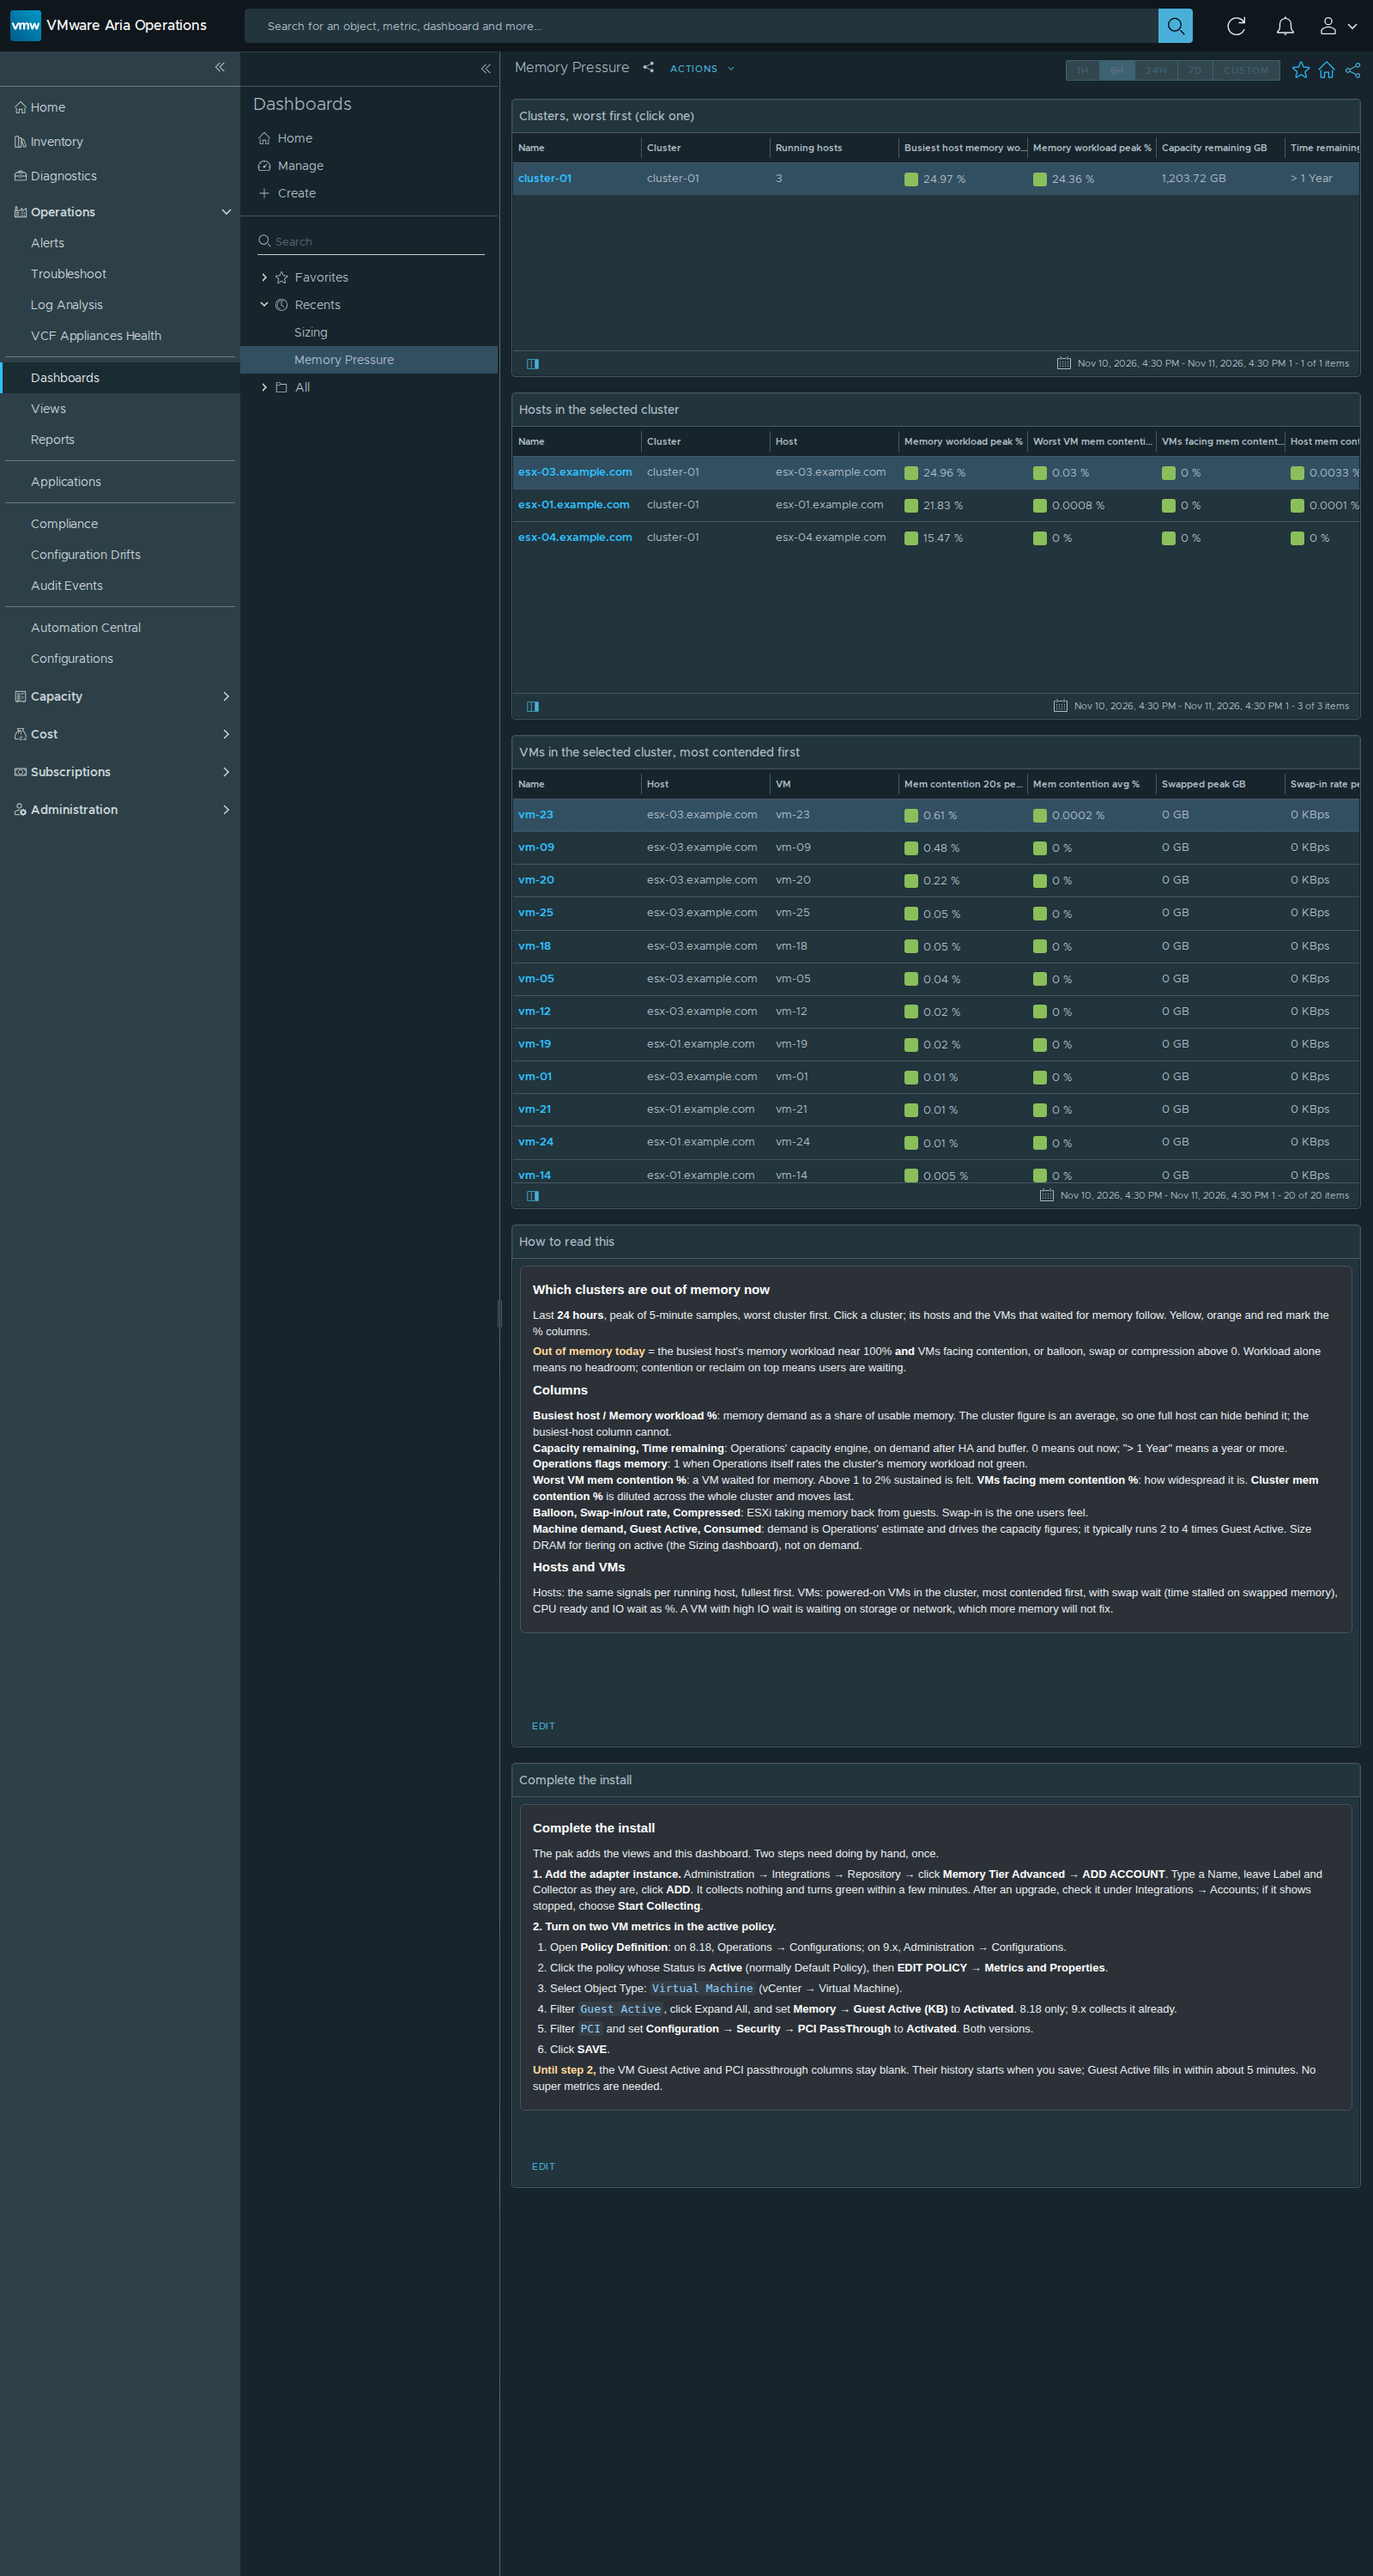
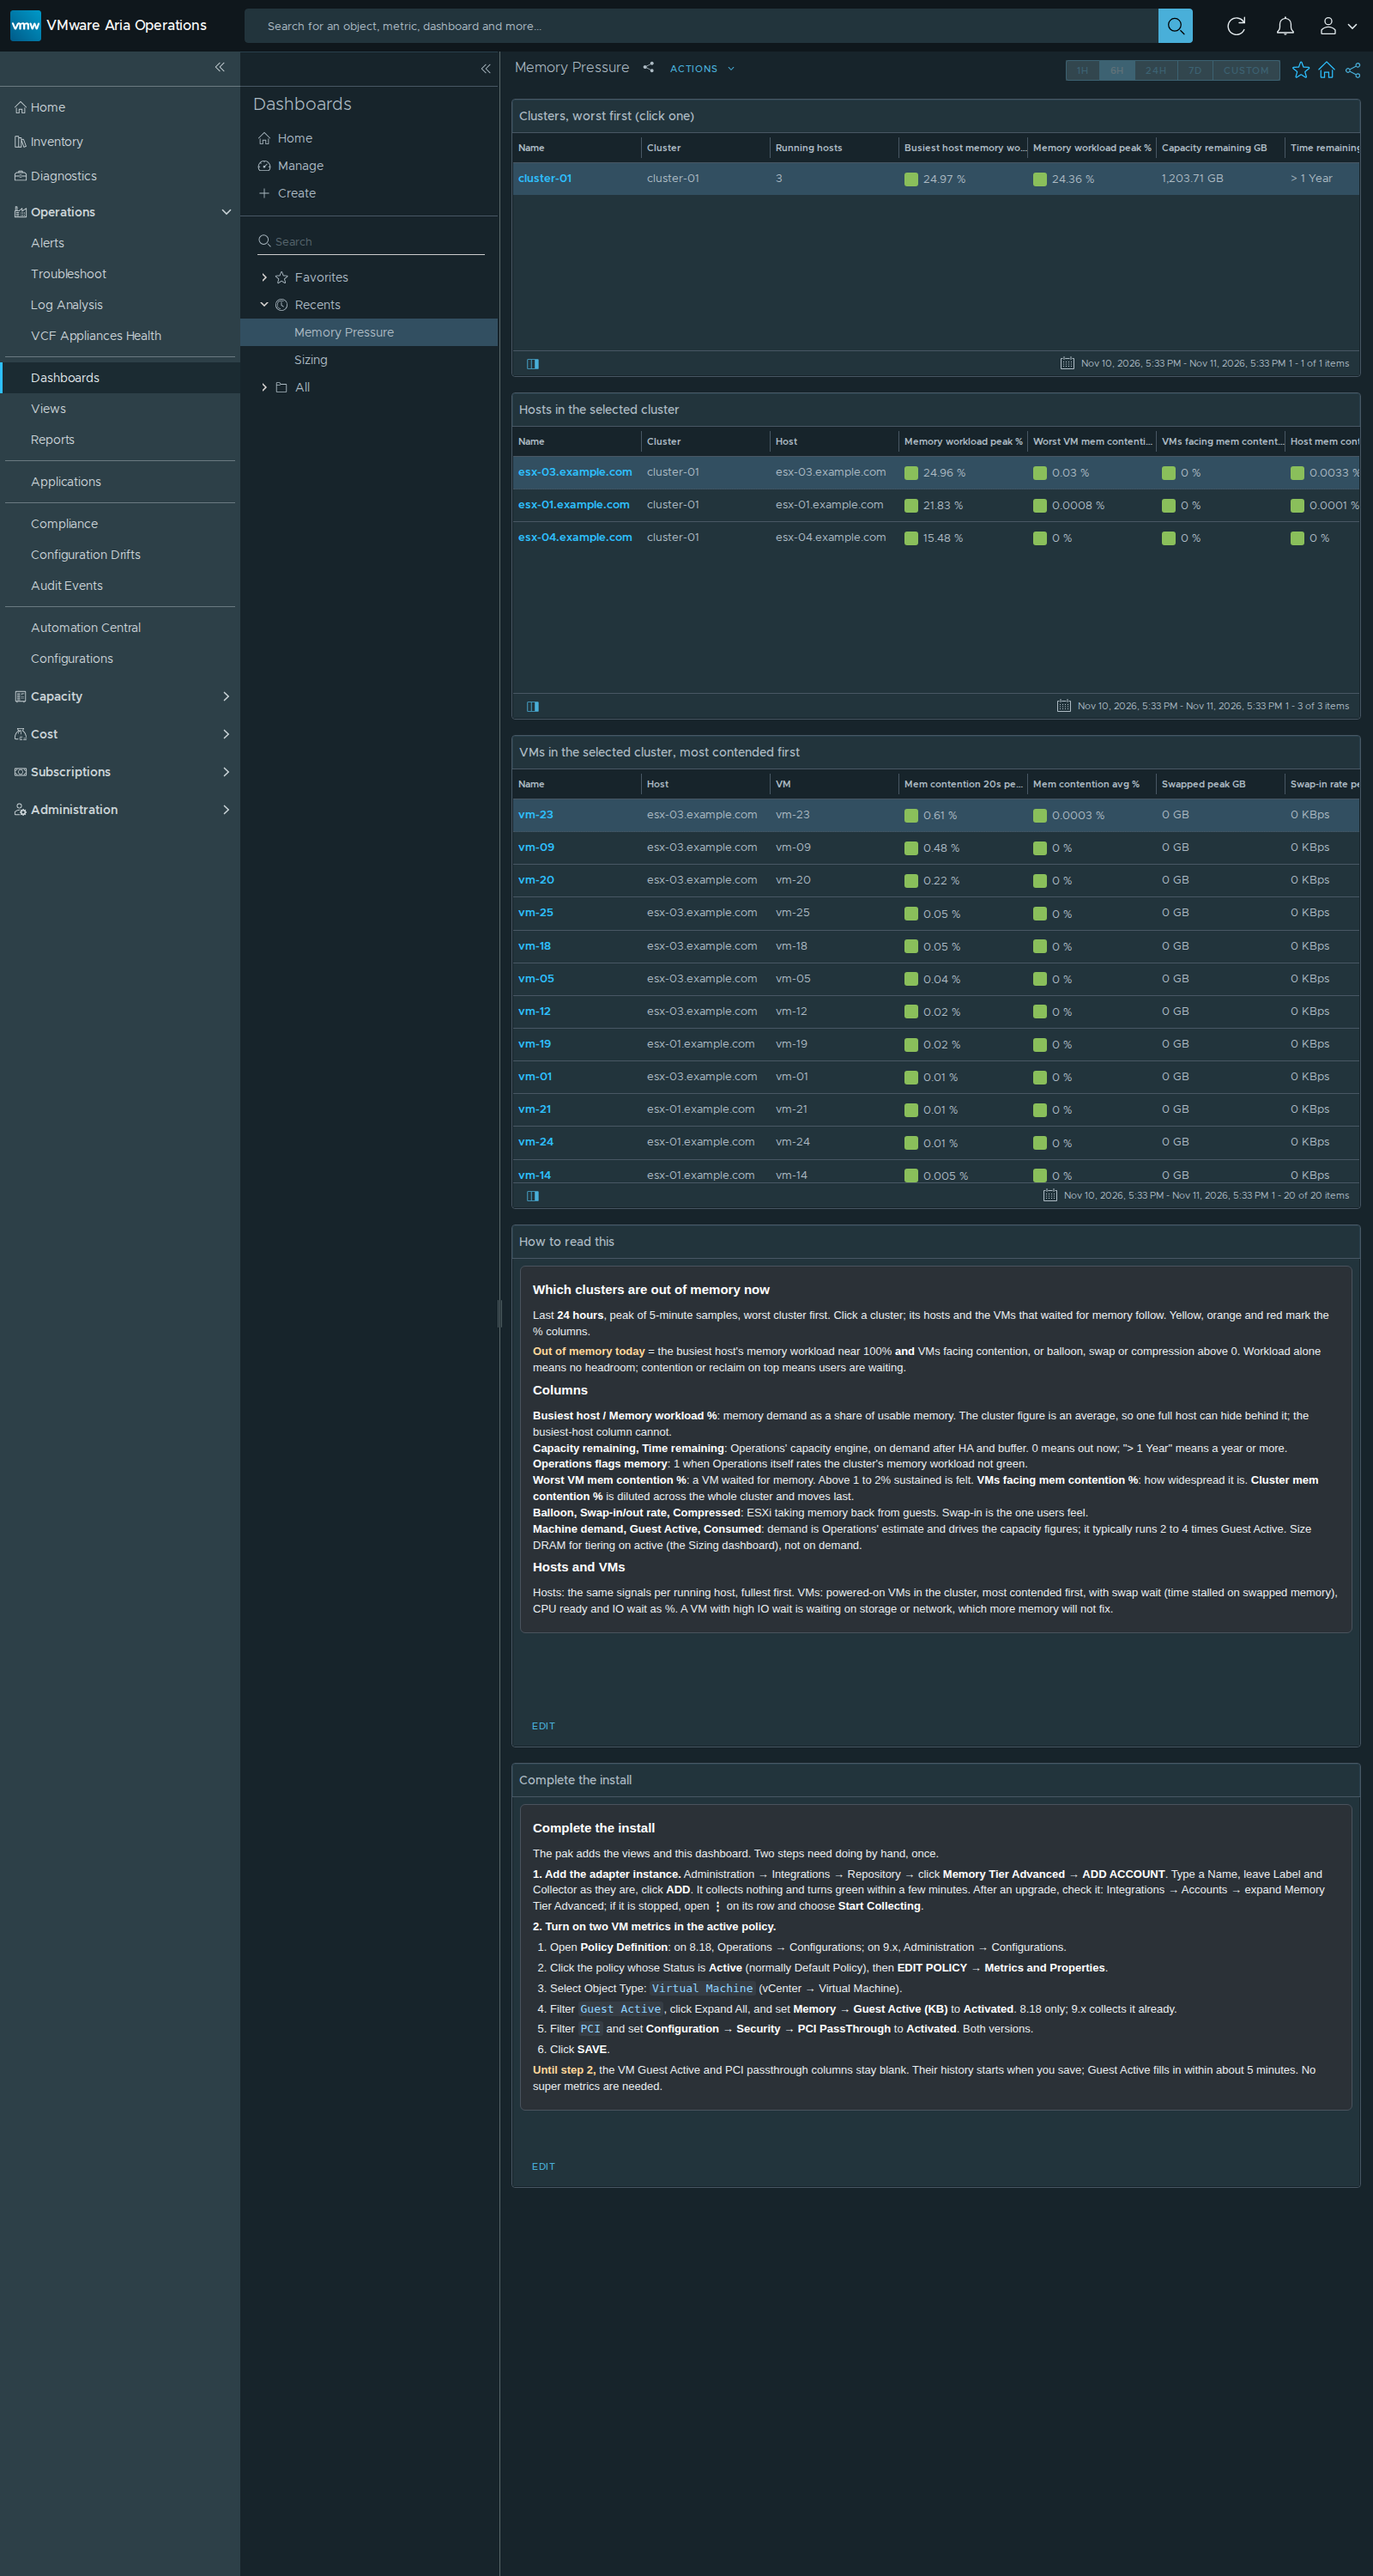
v3 rc.4 (build 0.0.0.6): exact Start Collecting path in Complete the install
Verified by vsan-net-mp on 8.18: Accounts -> expand the pack -> the account row's menu -> Start Collecting.

Changed region(s): [[0.1562, 0.124, 0.375, 0.155]]

diff --git a/tools/build_v3_content.py b/tools/build_v3_content.py
@@ -115,7 +115,8 @@ SETUP = """<h3 {H}>Complete the install</h3>
 <p {P}><b {B}>1. Add the adapter instance.</b> Administration → Integrations → Repository → click
 <b {B}>Memory Tier Advanced</b> → <b {B}>ADD ACCOUNT</b>. Type a Name, leave Label and Collector as
 they are, click <b {B}>ADD</b>. It collects nothing and turns green within a few minutes. After an
-upgrade, check it under Integrations → Accounts; if it shows stopped, choose <b {B}>Start Collecting</b>.</p>
+upgrade, check it: Integrations → Accounts → expand Memory Tier Advanced; if it is stopped, open
+<b {B}>⋮</b> on its row and choose <b {B}>Start Collecting</b>.</p>
 <p {P}><b {B}>2. Turn on two VM metrics in the active policy.</b></p>
 <ol style="margin:4px 0 4px 20px;padding:0;color:#e9edf0">
 <li {P}>Open <b {B}>Policy Definition</b>: on 8.18, Operations → Configurations; on 9.x,

diff --git a/README.md b/README.md
@@ -40,8 +40,9 @@ Screenshots and the full text of each dashboard's help panels: [docs/dashboards]
 
 ### Upgrading
 
-- Install the new pak over the old one. On 9.1.1, check the adapter instance under Integrations →
-  Accounts afterwards: an upgrade once left it stopped, and **Start Collecting** fixed it.
+- Install the new pak over the old one. Then check the adapter instance: Administration → Integrations
+  → Accounts → expand Memory Tier Advanced. If it is stopped (an upgrade once left it so on 9.1.1),
+  open **⋮** on its row and choose **Start Collecting**.
 - **From v3.0.0-rc.1 only:** rc.2 renamed the dashboard, and Operations matches pak dashboards by
   name, so the rc.1 dashboard ("Memory Tier Advanced - Sizing") is left behind. Delete it by hand.
   An uninstall after that upgrade also leaves "Memory Tier Advanced › Sizing" behind; delete it too.

diff --git a/v3/docs/installing.md b/v3/docs/installing.md
@@ -48,7 +48,7 @@ None. The adapter makes no outbound connection, so the pak works air-gapped.
 | Symptom | Fix |
 |---|---|
 | "Pak installation is in progress" | Another pak is installing on the instance; wait and retry. |
-| Adapter instance stopped after an upgrade (seen on 9.1.1) | Integrations → Accounts → the instance → **Start Collecting**. |
+| Adapter instance stopped after an upgrade (seen on 9.1.1) | Administration → Integrations → Accounts → expand Memory Tier Advanced → **⋮** on the account row → **Start Collecting**. |
 | Widgets "not configured" | Wait up to 15 minutes after install or upgrade. |
 | Guest Active per VM blank | Step 4; history starts when the policy is saved. |
 | Old dashboard still present after upgrading from rc.1 | Delete "Memory Tier Advanced - Sizing" by hand (rc.2 renamed it). |

diff --git a/v3/CHANGELOG.md b/v3/CHANGELOG.md
@@ -1,10 +1,11 @@
 # Changelog
 
-## 3.0.0-rc.4 (build 0.0.0.5)
+## 3.0.0-rc.4 (build 0.0.0.6)
 
 - New **Memory Pressure** dashboard: which clusters are out of memory now, last 24 hours, worst first
   and colour-coded; hosts and VMs for the selected cluster.
 - New report **Memory Tier Advanced - Cluster Memory Pressure** (PDF and CSV).
+- "Complete the install": the exact Start Collecting path (Accounts → expand the pack → ⋮ on the account row).
 - Hosts table: ready, IO wait and swap wait in milliseconds replaced by percentages (CPU demand,
   CPU contention, worst-VM ready, VMs facing ready, worst-VM co-stop, memory contention).
 - Clusters table: CPU contention, worst-VM CPU contention, worst-VM co-stop, memory contention and

diff --git a/v3/CHANGELOG.generated.md b/v3/CHANGELOG.generated.md
@@ -1,5 +1,9 @@
 # Changelog
 
+## Build 5 (2026-11-11)
+
+- v3 rc.4: Memory Pressure dashboard and report, pressure as %, help fixes; docs rewritten for v3
+
 ## Build 3 (2026-11-10)
 
 - v3 rc.3: Complete the install panel (adapter instance, policy steps for 8.18 and 9.x)

diff --git a/v3/docs/inventory-tree.md b/v3/docs/inventory-tree.md
@@ -1,6 +1,6 @@
 # Inventory Tree: Memory Tier Advanced
 
-> Generated from `describe.xml` v0.0.0.5. Do not edit: regenerated on every build.
+> Generated from `describe.xml` v0.0.0.6. Do not edit: regenerated on every build.
 
 **Traversal Spec:** Memory Tier Advanced
 

diff --git a/v3/REFERENCE.generated.md b/v3/REFERENCE.generated.md
@@ -1,6 +1,6 @@
 # Memory Tier Advanced Reference
 
-Generated from `describe.xml` and `resources.properties` for build 0.0.0.5.
+Generated from `describe.xml` and `resources.properties` for build 0.0.0.6.
 
 ## Adapter
 

diff --git a/v3/docs/README.md b/v3/docs/README.md
@@ -19,6 +19,6 @@
 ## Quick Reference
 
 - **Adapter kind:** `memtier_advanced`
-- **Version:** 0.0.0.5
+- **Version:** 0.0.0.6
 - **Traversal spec:** Memory Tier Advanced
 - **Resource kinds:** 1
